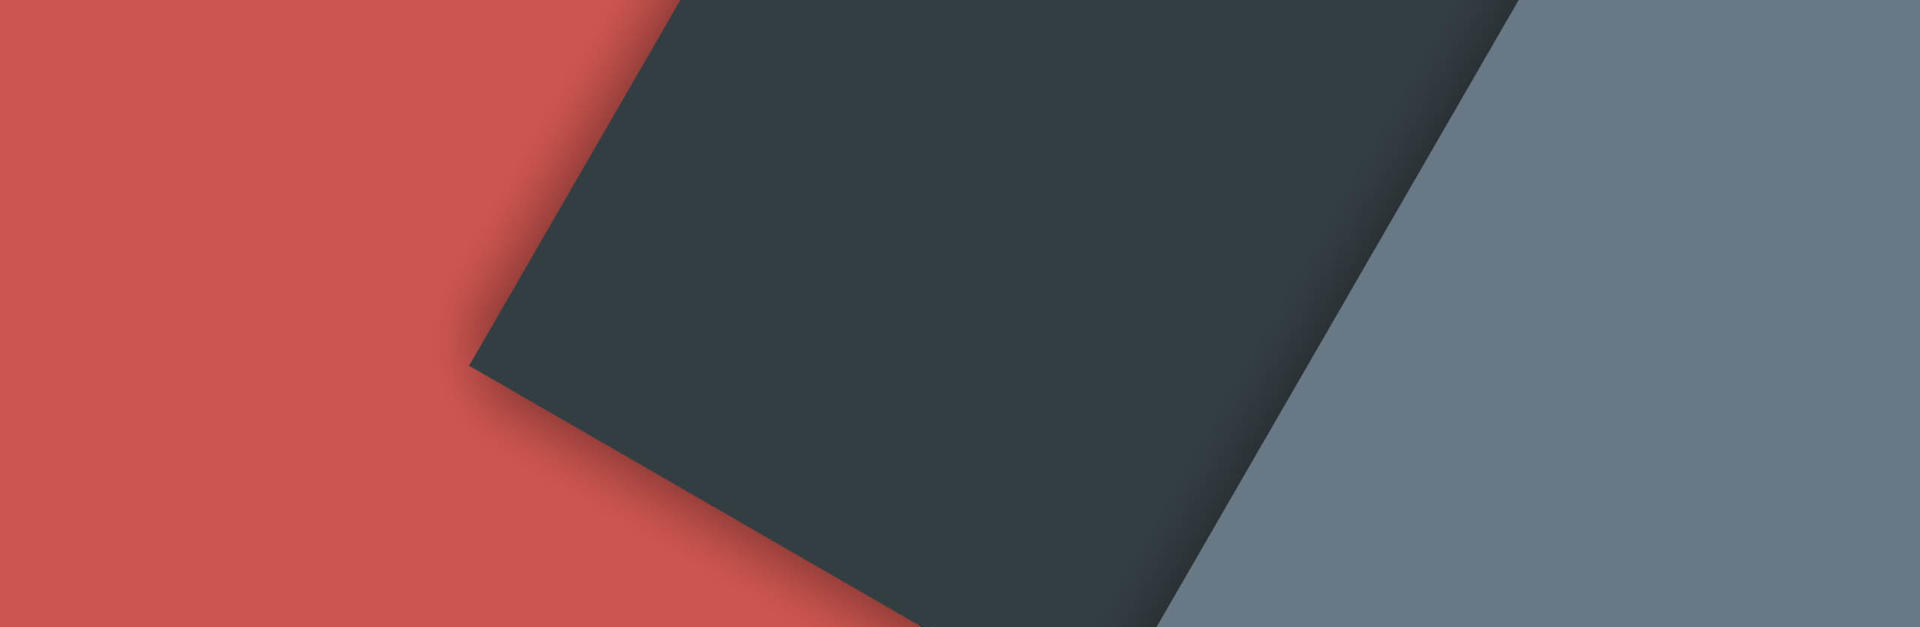
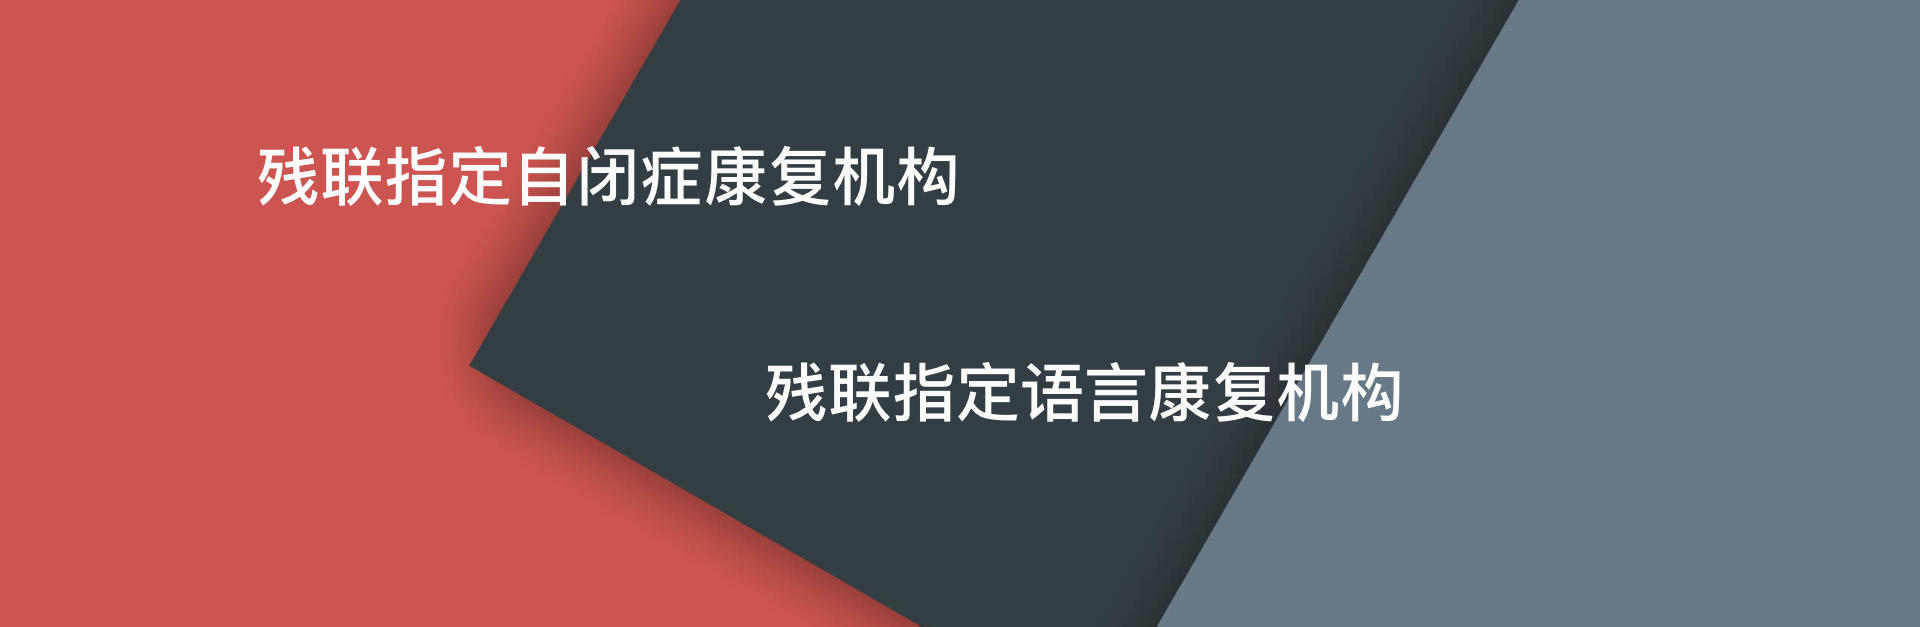
[MODIFY]加入残联标识@

Changed region(s): [[0.125, 0.2121, 0.5, 0.3333], [0.375, 0.5758, 0.75, 0.6667]]

diff --git a/index.html b/index.html
@@ -112,8 +112,8 @@
 <div class="flicker-example" data-block-text="false">
 	<ul >
 		<li data-background="images/bannerT.png"></li>
-		<li data-background="images/bannerone.jpg"></li>
-		<li data-background="images/frozen-water.jpg"></li>
+		<li data-background="images/bannerone.png"></li>
+		<li data-background="images/frozen-water.png"></li>
 	</ul>
 
 </div>
